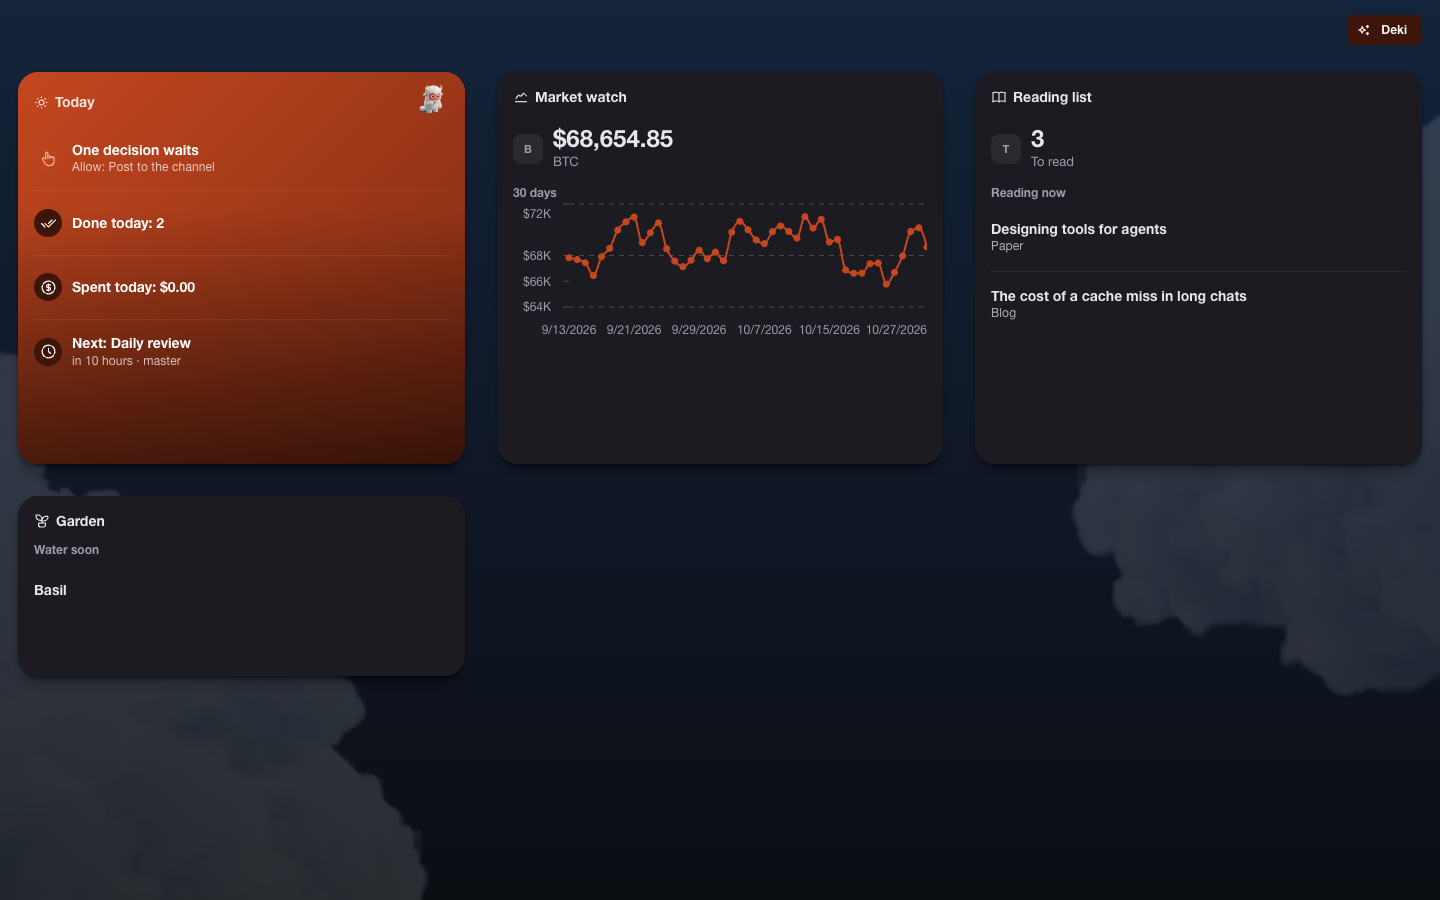
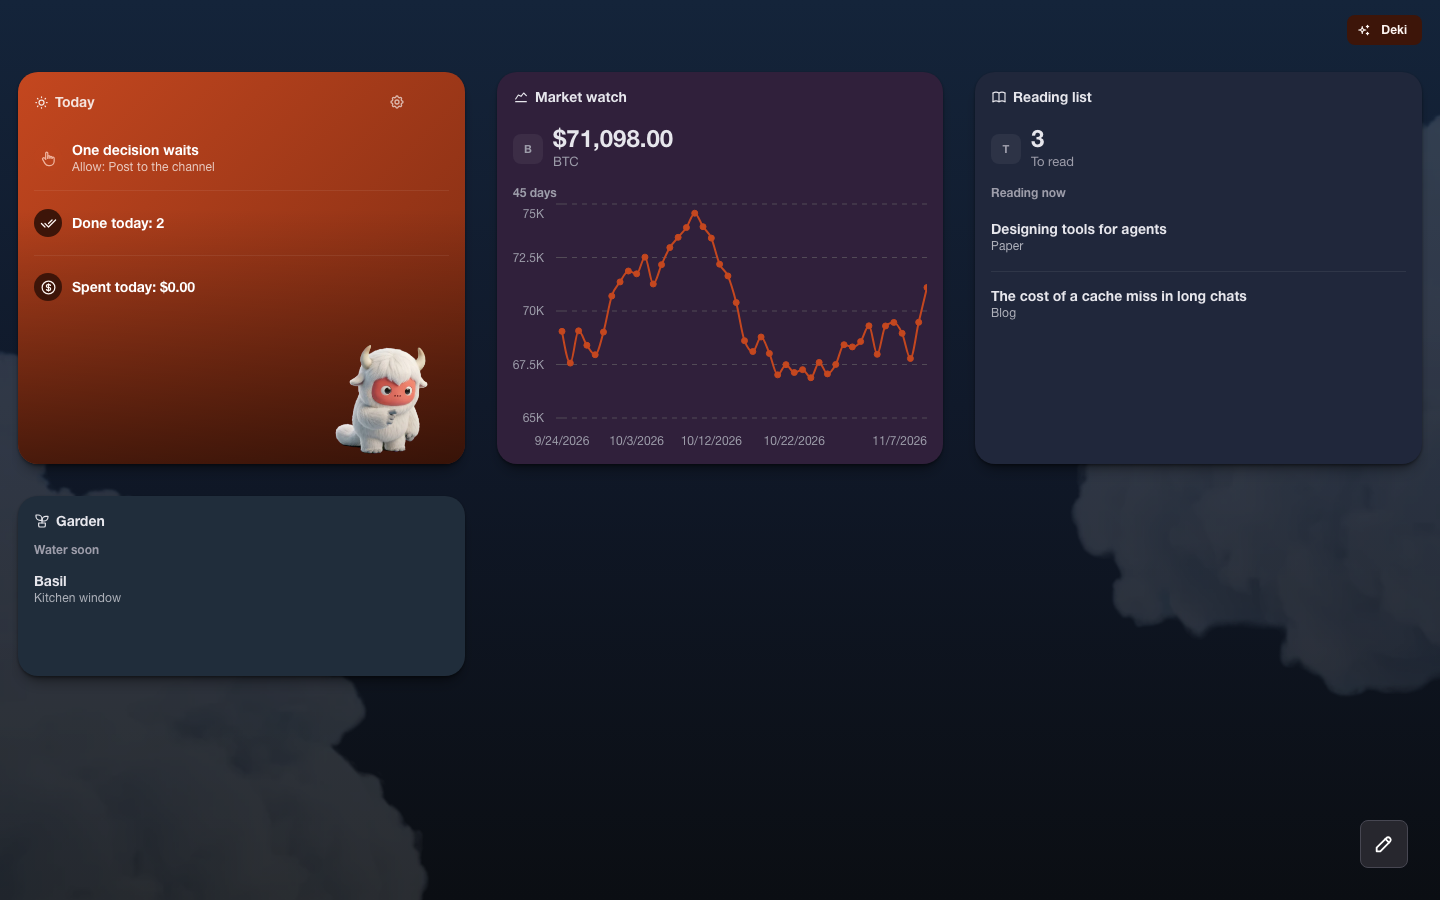
docs: the README with fresh screenshots of the new interface; changes for modules

diff --git a/README.md b/README.md
@@ -38,8 +38,8 @@ answer the one or two things that need you.
 
 ## Tiles and live widgets
 
-The home screen is a grid of cards you place and resize freely, any width by any height, separately for each
-device. Each module card is a **live widget**: a tiny screen of the module's own data that updates the moment the
+The home screen is a grid of cards, arranged like a phone's: the pencil at the bottom right lets you drag and resize
+them, put modules in folders or take them off the home, separately for each device. Each module card is a **live widget**: a tiny screen of the module's own data that updates the moment the
 data changes, with no polling.
 
 - A module declares up to eight widget views in its manifest, each for a least size (`1x1`, `2x1`, `3x2`, …) and
@@ -51,7 +51,8 @@ data changes, with no polling.
   assigned to that work. The result is an ordinary manifest edit you can undo.
 - **Today** is deck's own widget: what waits for you, what failed, what runs, what was done, what the day cost and
   what runs next.
-- A card without widgets shows its cover, which Deki can also draw.
+- A card without widgets shows its cover, which Deki can also draw; a widget stands on a veil over its module's
+  cover, and without one wears a color of the theme Deki can change.
 
 ## Deki, the master agent
 
@@ -106,8 +107,8 @@ For those who want to know how it holds together; the full picture is in
 
 <table>
 <tr>
-<td width="50%"><img src="docs/screenshots/today.png" alt="Today: a decision to allow, what runs, what was done without you with an undo"><br><sub><b>Today.</b>
-One decision waits; a run's deletions sit under "done without you" with an undo.</sub></td>
+<td width="50%"><img src="docs/screenshots/today.png" alt="Today: a decision to allow and what was done without you with an undo"><br><sub><b>Today.</b>
+One decision waits; a run's deletions sit under "done without you" with an undo; each line opens its own page.</sub></td>
 <td width="50%"><img src="docs/screenshots/chat.png" alt="A board module with Deki's chat open beside it"><br><sub><b>Deki beside a module.</b>
 The chat sees the screen and offers its commands.</sub></td>
 </tr>
@@ -118,8 +119,8 @@ Side panel with a filter and stats, a chart and a table, all from the manifest.<
 Records in lanes by their status; dragging a card runs the module's command.</sub></td>
 </tr>
 <tr>
-<td width="50%"><img src="docs/screenshots/models.png" alt="Settings, Models: who does what, a model per command"><br><sub><b>Models.</b>
-The model of each command picked in its row, with price and fallbacks.</sub></td>
+<td width="50%"><img src="docs/screenshots/models.png" alt="Settings, Models: what waits for you, then who does what as cards"><br><sub><b>Models.</b>
+What waits for you first; then a card for each work with its model's mark, its price, free or paid, and fallbacks.</sub></td>
 <td width="50%"><img src="docs/screenshots/tiles-dark.png" alt="The tiles in the dark scheme"><br><sub><b>Dark scheme.</b>
 The same tiles; the theme follows the system or your choice.</sub></td>
 </tr>

diff --git a/master/changes.md b/master/changes.md
@@ -88,3 +88,11 @@ and bring the modules in line.
   is seldom needed below what the owner acts on. A line of a list takes `logo` (words naming a model, its maker or
   provider: the client draws its mark in place of the icon, else the first letter), a column the format `logo`.
   Buttons of deck's verbs wear an icon each.
+- 2026-11-08: a module exports with its data (`project_export` with `data`: records, memory, the data folder) and an
+  import brings it back; `project_reset` empties its data after a snapshot. A widget whose blocks are all empty gives
+  way to the cover of its module. An empty block below another of its place stays out of sight — say why a screen is
+  empty in its first block. A column of a table takes `icon` (an expression of the row's icon), a chart `details`
+  (the text of a point, beside its values). `folder_add` with `replace` changes the path of a folder in place;
+  `commands_list` gives `document`, the file of a command's script or prompt, by its fields. The theme token
+  `widget-card` colors a card that shows its module's view without a cover; with a cover the view stands on a veil
+  over it.
